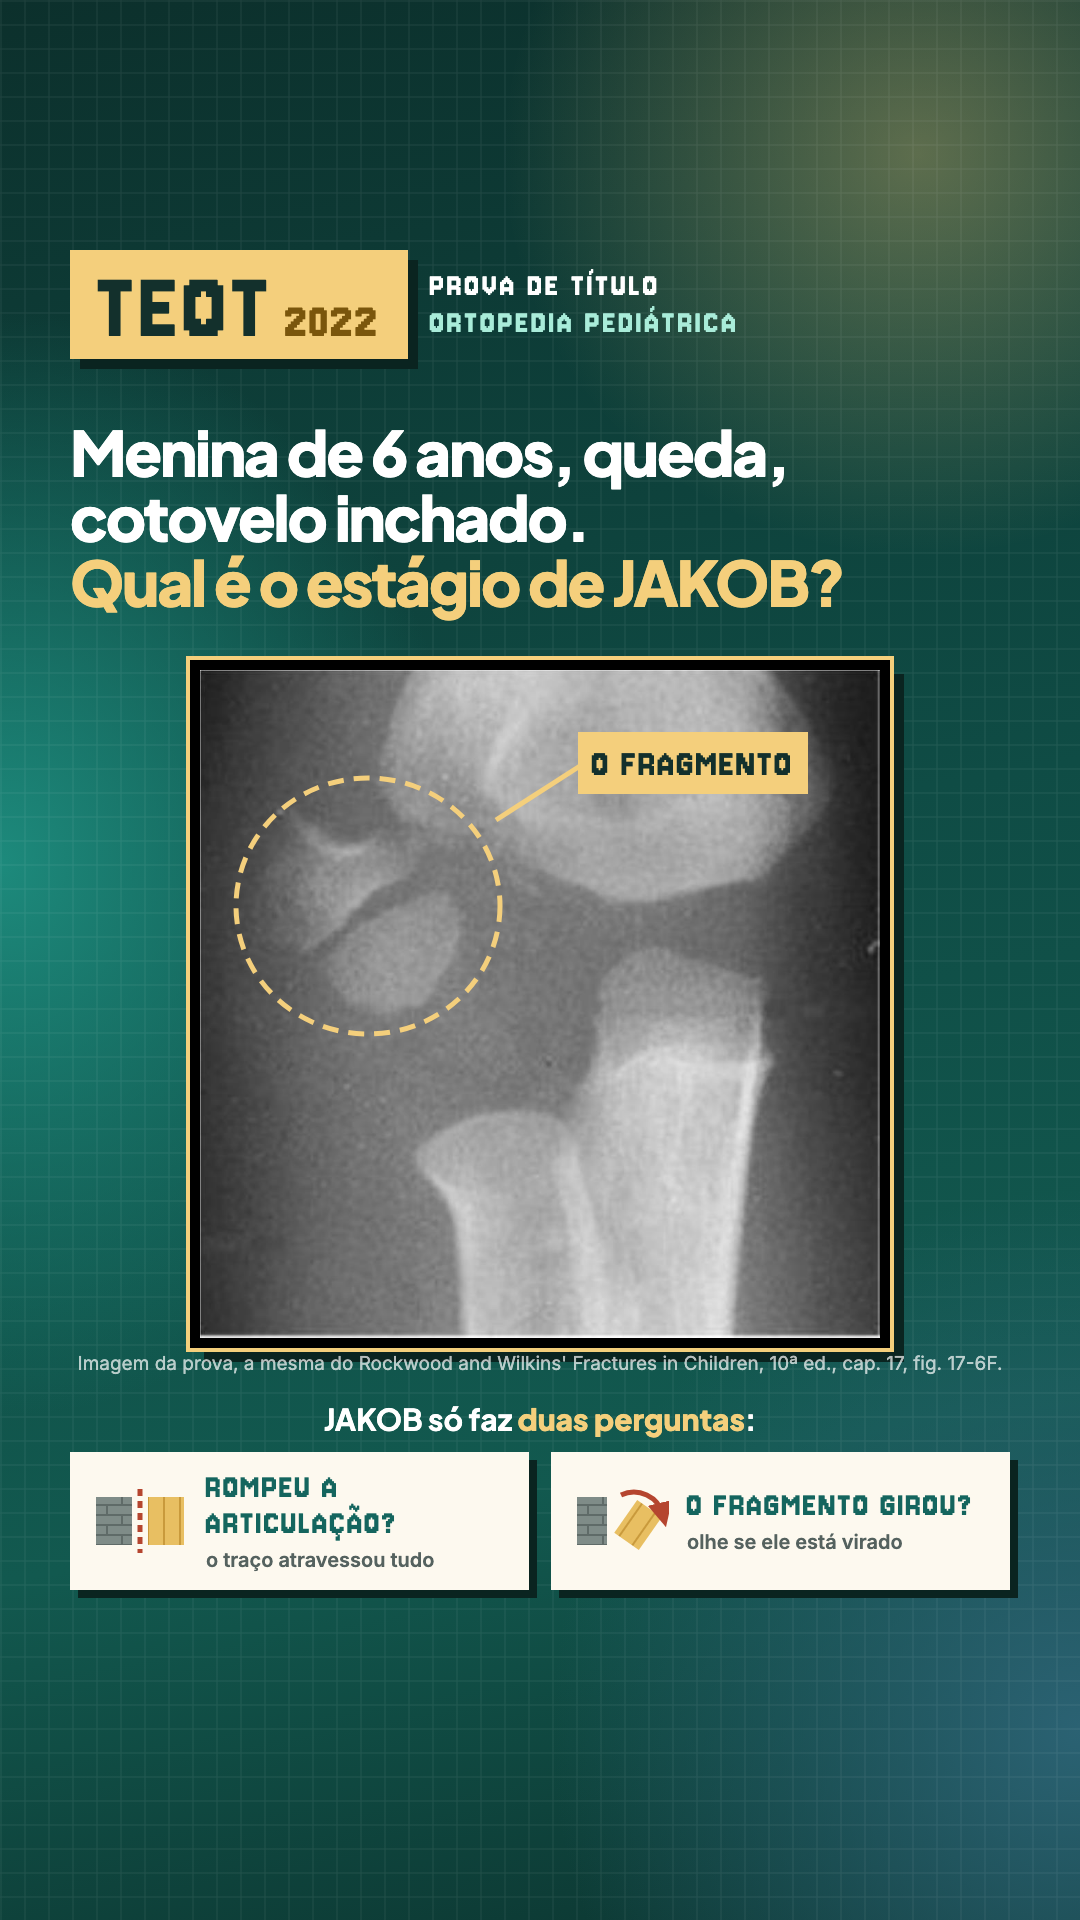
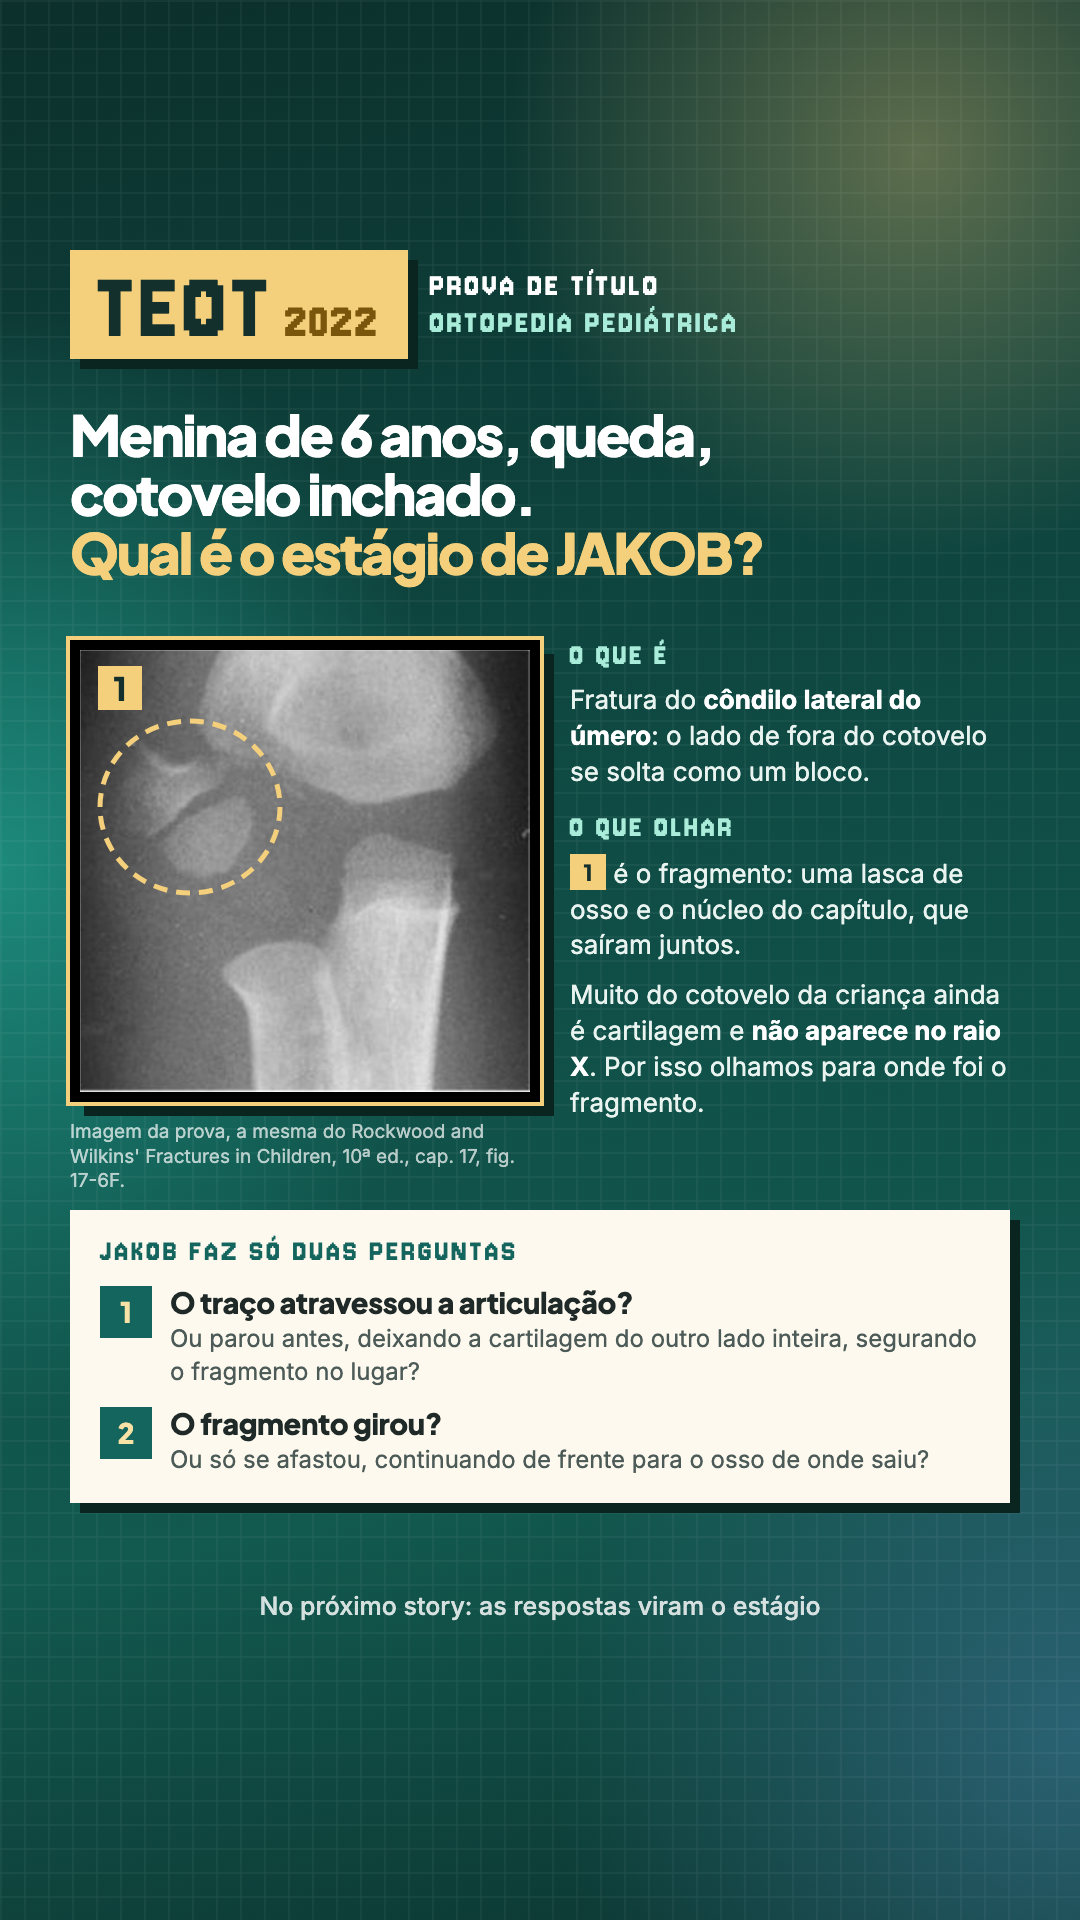
Stories 26/11: JAKOB explicado em palavras simples e tabela de sim e não

diff --git a/marketing/instagram/posts/2026-11-26-porta-jakob/stories.html b/marketing/instagram/posts/2026-11-26-porta-jakob/stories.html
@@ -64,6 +64,29 @@
 .inclui span { padding: 10px 17px; border-radius: 999px; background: rgba(255,255,255,.12); border: 1.5px solid rgba(255,255,255,.3); font: 700 22px/1 Jakarta; color: #fff; }
 .secao { position: absolute; left: 70px; right: 70px; display: flex; align-items: center; gap: 16px; font: 400 38px/1 Jersey; letter-spacing: 3px; color: #a9ecd9; }
 .secao::before, .secao::after { content: ''; flex: 1; height: 4px; background: repeating-linear-gradient(90deg, rgba(169,236,217,.55) 0 12px, transparent 12px 20px); }
+.rot2 { font: 400 32px/1 Jersey; letter-spacing: 3px; color: #a9ecd9; }
+.txt2 { margin-top: 10px; font: 400 26px/1.38 Inter; color: #e9f4f0; }
+.txt2 b { font-weight: 700; color: #fff; }
+.txt2 .nb { display: inline-grid; place-items: center; width: 36px; height: 36px; background: var(--ouro); color: #13302c; font: 800 22px/1 Jakarta; vertical-align: 2px; }
+.caixa2 { position: absolute; left: 70px; right: 70px; padding: 26px 30px; background: #fdf9ef; box-shadow: 10px 10px 0 #0a2420; }
+.caixa2 .q { display: grid; grid-template-columns: 52px 1fr; gap: 18px; margin-top: 18px; }
+.caixa2 .q > b { width: 52px; height: 52px; display: grid; place-items: center; background: var(--verde); color: #f9e2a6; font: 800 28px/1 Jakarta; }
+.caixa2 .q p { font: 400 24px/1.36 Inter; color: #4d5b58; }
+.caixa2 .q p span { display: block; margin-bottom: 4px; font: 800 29px/1.15 Jakarta; letter-spacing: -.4px; color: #1f2a28; }
+.caixa2 .fim { margin-top: 22px; padding: 18px 22px; background: linear-gradient(160deg, #fff4d4, #f8dfa0); box-shadow: 0 0 0 4px #dcaa45; font: 500 22px/1.35 Inter; color: #34423f; }
+.caixa2 .fim span { display: block; margin-bottom: 6px; font: 400 44px/1 Jersey; letter-spacing: 2px; color: #b5452f; }
+.tab { position: absolute; left: 70px; right: 70px; background: #fdf9ef; box-shadow: 10px 10px 0 #0a2420; padding: 12px 22px 18px; }
+.tab .cab, .tab .lin { display: grid; grid-template-columns: 92px 200px 200px 1fr; gap: 14px; align-items: center; }
+.tab .cab span { font: 400 24px/1.05 Jersey; letter-spacing: 1.5px; color: var(--verde); text-align: center; padding: 10px 0; }
+.tab .lin { padding: 14px 0; border-top: 2px dashed #d6ccb6; }
+.tab .lin .e { width: 76px; height: 76px; display: grid; place-items: center; background: var(--verde); color: #f9e2a6; font: 800 34px/1 Jakarta; }
+.tab .lin i { font-style: normal; justify-self: center; width: 130px; padding: 12px 0; text-align: center; font: 400 36px/1 Jersey; letter-spacing: 2px; }
+.tab i.nao { background: #e6ded0; color: #6b6555; }
+.tab i.sim { background: #b5452f; color: #fff; }
+.tab .lin p { font: 400 21px/1.32 Inter; color: #34423f; }
+.tab .lin p b { font-weight: 700; color: #1f2a28; }
+.tab .lin.sel { margin: 0 -22px; padding: 14px 22px; background: linear-gradient(160deg, #fff4d4, #f8dfa0); box-shadow: 0 0 0 4px #dcaa45; border-top: 0; }
+.tab .lin.sel .e { background: #b5452f; color: #fff; }
 </style></head>
 <body>
 <svg width="0" height="0" style="position:absolute">
@@ -74,78 +97,59 @@
   </defs>
 </svg>
 
-<!-- ============ STORY 1: o caso ============ -->
+<!-- ============ STORY 1: o caso, em palavras simples ============ -->
 <section id="qui26-1-caso">
   <div class="fundo"></div><div class="grade"></div>
   <div class="teot"><div class="t">TEOT<small>2022</small></div><p class="s"><b>PROVA DE TÍTULO</b><br>ORTOPEDIA PEDIÁTRICA</p></div>
-  <h1 class="h1" style="top:420px;">Menina de 6 anos, queda,<br>cotovelo inchado.<br><span class="o">Qual é o estágio de JAKOB?</span></h1>
+  <h1 class="h1" style="top:405px; font-size:56px;">Menina de 6 anos, queda,<br>cotovelo inchado.<br><span class="o">Qual é o estágio de JAKOB?</span></h1>
 
-  <div class="rx" style="left:190px; width:700px; top:660px;">
+  <div class="rx" style="left:70px; width:470px; top:640px;">
     <img src="img/questao.jpeg" alt="">
-    <svg viewBox="0 0 680 668" width="680" height="668">
-      <ellipse cx="168" cy="236" rx="132" ry="128" fill="none" stroke="#F4CF7C" stroke-width="5" stroke-dasharray="16 10"/>
-      <path d="M296 150 L380 96" stroke="#F4CF7C" stroke-width="5"/>
-      <rect x="378" y="62" width="230" height="62" fill="#F4CF7C"/>
-      <text x="493" y="105" text-anchor="middle" font-family="Jersey" font-size="40" letter-spacing="2" fill="#13302c">O FRAGMENTO</text>
+    <svg viewBox="0 0 450 442" width="450" height="442">
+      <ellipse cx="110" cy="157" rx="90" ry="86" fill="none" stroke="#F4CF7C" stroke-width="5" stroke-dasharray="14 9"/>
+      <rect x="18" y="16" width="44" height="44" fill="#F4CF7C"/><text x="40" y="51" text-anchor="middle" font-family="Jakarta" font-weight="800" font-size="32" fill="#13302c">1</text>
     </svg>
   </div>
-  <p class="legenda" style="top:1352px;">Imagem da prova, a mesma do Rockwood and Wilkins' Fractures in Children, 10ª ed., cap. 17, fig. 17-6F.</p>
-
-  <p class="chave" style="top:1404px;">JAKOB só faz <b>duas perguntas</b>:</p>
-  <div class="perg" style="top:1452px;">
-    <div>
-      <svg viewBox="0 0 96 72"><rect x="4" y="12" width="36" height="48" fill="url(#tijolo)"/><rect x="56" y="12" width="36" height="48" fill="url(#tabua)"/><path d="M48 4v64" stroke="#b5452f" stroke-width="5" stroke-dasharray="7 5"/></svg>
-      <p>ROMPEU A ARTICULAÇÃO?<span>o traço atravessou tudo</span></p>
-    </div>
-    <div>
-      <svg viewBox="0 0 96 72"><rect x="4" y="12" width="30" height="48" fill="url(#tijolo)"/><rect x="50" y="20" width="30" height="40" fill="url(#tabua)" transform="rotate(35 65 40)"/><path d="M48 10 A 30 30 0 0 1 90 30" fill="none" stroke="#b5452f" stroke-width="5" marker-end="url(#ponta)"/></svg>
-      <p>O FRAGMENTO GIROU?<span>olhe se ele está virado</span></p>
-    </div>
+  <div style="position:absolute; left:570px; right:70px; top:640px;">
+    <p class="rot2">O QUE É</p>
+    <p class="txt2">Fratura do <b>côndilo lateral do úmero</b>: o lado de fora do cotovelo se solta como um bloco.</p>
+    <p class="rot2" style="margin-top:22px;">O QUE OLHAR</p>
+    <p class="txt2"><b class="nb">1</b> é o fragmento: uma lasca de osso e o núcleo do capítulo, que saíram juntos.</p>
+    <p class="txt2" style="margin-top:14px;">Muito do cotovelo da criança ainda é cartilagem e <b>não aparece no raio X</b>. Por isso olhamos para onde foi o fragmento.</p>
   </div>
+  <p class="legenda" style="top:1120px; left:70px; right:auto; width:470px; text-align:left;">Imagem da prova, a mesma do Rockwood and Wilkins' Fractures in Children, 10ª ed., cap. 17, fig. 17-6F.</p>
+
+  <div class="caixa2" style="top:1210px;">
+    <p class="rot2" style="color:var(--verde);">JAKOB FAZ SÓ DUAS PERGUNTAS</p>
+    <div class="q"><b>1</b><p><span>O traço atravessou a articulação?</span>Ou parou antes, deixando a cartilagem do outro lado inteira, segurando o fragmento no lugar?</p></div>
+    <div class="q"><b>2</b><p><span>O fragmento girou?</span>Ou só se afastou, continuando de frente para o osso de onde saiu?</p></div>
+  </div>
+  <p class="rodape" style="top:1590px; font-size:25px;">No próximo story: as respostas viram o estágio</p>
 </section>
 
-<!-- ============ STORY 2: a porta de JAKOB ============ -->
+<!-- ============ STORY 2: a tabela de JAKOB ============ -->
 <section id="qui26-2-jakob">
   <div class="fundo" style="transform:scaleX(-1);"></div><div class="grade"></div>
-  <div class="teot"><div class="t">TEOT<small>2022</small></div><p class="s"><b>A PORTA</b><br>DE JAKOB</p></div>
-  <h1 class="h1" style="top:420px; font-size:58px;">Pense numa porta:<br><span class="o">quanto ela saiu do batente?</span></h1>
+  <div class="teot"><div class="t">TEOT<small>2022</small></div><p class="s"><b>JAKOB</b><br>EM SIM E NÃO</p></div>
+  <h1 class="h1" style="top:420px; font-size:56px;">Duas respostas,<br><span class="o">três estágios.</span></h1>
 
-  <!-- I -->
-  <div class="est" style="top:590px;">
-    <svg viewBox="0 0 380 210">
-      <rect x="30" y="25" width="150" height="160" fill="url(#tijolo)"/>
-      <rect x="183" y="25" width="120" height="160" fill="url(#tabua)" stroke="#a8802a" stroke-width="3"/>
-      <circle cx="303" cy="185" r="13" fill="#14655e" stroke="#0a2420" stroke-width="3"/>
-    </svg>
-    <div><p class="n"><b>I</b>encostada</p><p>A dobradiça segura: <b>articulação íntegra</b>, quase sem desvio.</p></div>
-  </div>
-  <!-- II -->
-  <div class="est" style="top:850px;">
-    <svg viewBox="0 0 380 210">
-      <rect x="20" y="25" width="150" height="160" fill="url(#tijolo)"/>
-      <rect x="232" y="25" width="120" height="160" fill="url(#tabua)" stroke="#a8802a" stroke-width="3"/>
-      <path d="M182 105h38" stroke="#b5452f" stroke-width="5" marker-start="url(#ponta)" marker-end="url(#ponta)"/>
-      <circle cx="170" cy="185" r="13" fill="none" stroke="#b5452f" stroke-width="3" stroke-dasharray="5 4"/>
-    </svg>
-    <div><p class="n"><b>II</b>aberta</p><p>A dobradiça rompeu: <b>a articulação foi atravessada</b>. Afasta, mas fica reta.</p></div>
-  </div>
-  <!-- III -->
-  <div class="est sel" style="top:1110px;">
-    <span class="tag">A DA PROVA</span>
-    <svg viewBox="0 0 380 210">
-      <rect x="20" y="25" width="150" height="160" fill="url(#tijolo)"/>
-      <rect x="230" y="62" width="120" height="100" fill="url(#tabua)" stroke="#a8802a" stroke-width="3" transform="rotate(62 290 112)"/>
-      <path d="M210 40 A 80 80 0 0 1 350 52" fill="none" stroke="#b5452f" stroke-width="6" marker-end="url(#ponta)"/>
-      <circle cx="170" cy="185" r="13" fill="none" stroke="#b5452f" stroke-width="3" stroke-dasharray="5 4"/>
-    </svg>
-    <div><p class="n"><b>III</b>arrancada</p><p>Fora do lugar e <b>girada</b>. A rotação é o que separa o III do II.</p></div>
+  <div class="tab" style="top:590px;">
+    <div class="cab"><span></span><span>ATRAVESSOU A<br>ARTICULAÇÃO?</span><span>O FRAGMENTO<br>GIROU?</span></div>
+    <div class="lin"><b class="e">I</b><i class="nao">NÃO</i><i class="nao">NÃO</i>
+      <p>A cartilagem do outro lado segura o fragmento: <b>quase sem desvio</b>.</p></div>
+    <div class="lin"><b class="e">II</b><i class="sim">SIM</i><i class="nao">NÃO</i>
+      <p>Solto, o fragmento <b>se afasta, mas continua de frente</b>.</p></div>
+    <div class="lin sel"><b class="e">III</b><i class="sim">SIM</i><i class="sim">SIM</i>
+      <p>Fragmento <b>totalmente fora do lugar e virado</b>.</p></div>
   </div>
 
-  <div class="resp" style="top:1376px;">
-    <div class="g">III</div>
-    <p>Na radiografia, o fragmento está longe e virado.<span>Gabarito oficial: C. E o estágio IV não existe: JAKOB vai de I a III.</span></p>
+  <div class="caixa2" style="top:1070px;">
+    <p class="rot2" style="color:var(--verde);">NA RADIOGRAFIA DA PROVA</p>
+    <div class="q"><b>1</b><p><span>Atravessou? SIM.</span>O fragmento está longe do úmero; isso só acontece quando a articulação foi rompida.</p></div>
+    <div class="q"><b>2</b><p><span>Girou? SIM.</span>O núcleo do capítulo está virado em relação ao osso de onde saiu.</p></div>
+    <div class="fim"><span>SIM + SIM = ESTÁGIO III</span>Gabarito oficial: C. Atenção: não existe estágio IV, JAKOB vai de I a III.</div>
   </div>
-  <p class="legenda" style="top:1548px;">Rockwood and Wilkins' Fractures in Children, 10ª ed., cap. 17. A porta é só uma metáfora.</p>
+  <p class="legenda" style="top:1530px;">Rockwood and Wilkins' Fractures in Children, 10ª ed., cap. 17.</p>
 </section>
 
 <!-- ============ STORY 3: comece já ============ -->

diff --git a/marketing/instagram/posts/2026-11-26-porta-jakob/LEGENDA.md b/marketing/instagram/posts/2026-11-26-porta-jakob/LEGENDA.md
@@ -6,12 +6,13 @@ node marketing/instagram/gerar.mjs marketing/instagram/posts/2026-11-26-porta-ja
 
 Pedido do Tales (26/11/2026): questão do TEOT com imagem e a tag TEOT bem marcada, didática para R1, pouco texto e mais
 SVG; o último story com os preços, sem falar em promoção. Questão `pediatria-0697` (**TEOT 2022**), gabarito oficial **C**
-(estágio III de JAKOB). A porta é metáfora com blocos abstratos; a única anatomia é a radiografia da prova.
+(estágio III de JAKOB). Segunda versão (Tales achou a porta confusa): explicação em palavras simples e tabela de sim e não;
+nenhum desenho de anatomia, só a radiografia da prova.
 
 | Ordem | Arquivo | O que é |
 |---|---|---|
-| 1 | `qui26-1-caso.png` | Selo TEOT 2022, o caso, a radiografia com o fragmento marcado e as duas perguntas de JAKOB (rompeu a articulação? girou?) |
-| 2 | `qui26-2-jakob.png` | A porta: I encostada, II aberta, III arrancada e girada (a da prova); resposta III e o aviso de que o estágio IV não existe |
+| 1 | `qui26-1-caso.png` | Selo TEOT 2022, o caso, a radiografia com o fragmento marcado, o que é a fratura e as duas perguntas de JAKOB (atravessou a articulação? o fragmento girou?) |
+| 2 | `qui26-2-jakob.png` | Tabela de sim e não (I não/não, II sim/não, III sim/sim), a radiografia da prova respondida passo a passo, gabarito C e o aviso de que o estágio IV não existe |
 | 3 | `qui26-3-planos.png` | Selo TEOT 2027 (10 de janeiro), treino gratuito de 20 questões por dia ou o plano completo (mensal R$ 39,90; semestral R$ 34,90/mês, R$ 209,40; anual R$ 29,90/mês, R$ 358,80) |
 
 Fonte (comentário, `conferido: false`): Rockwood and Wilkins' Fractures in Children, 10ª ed., cap. 17 (imagem = Fig. 17-6F).
